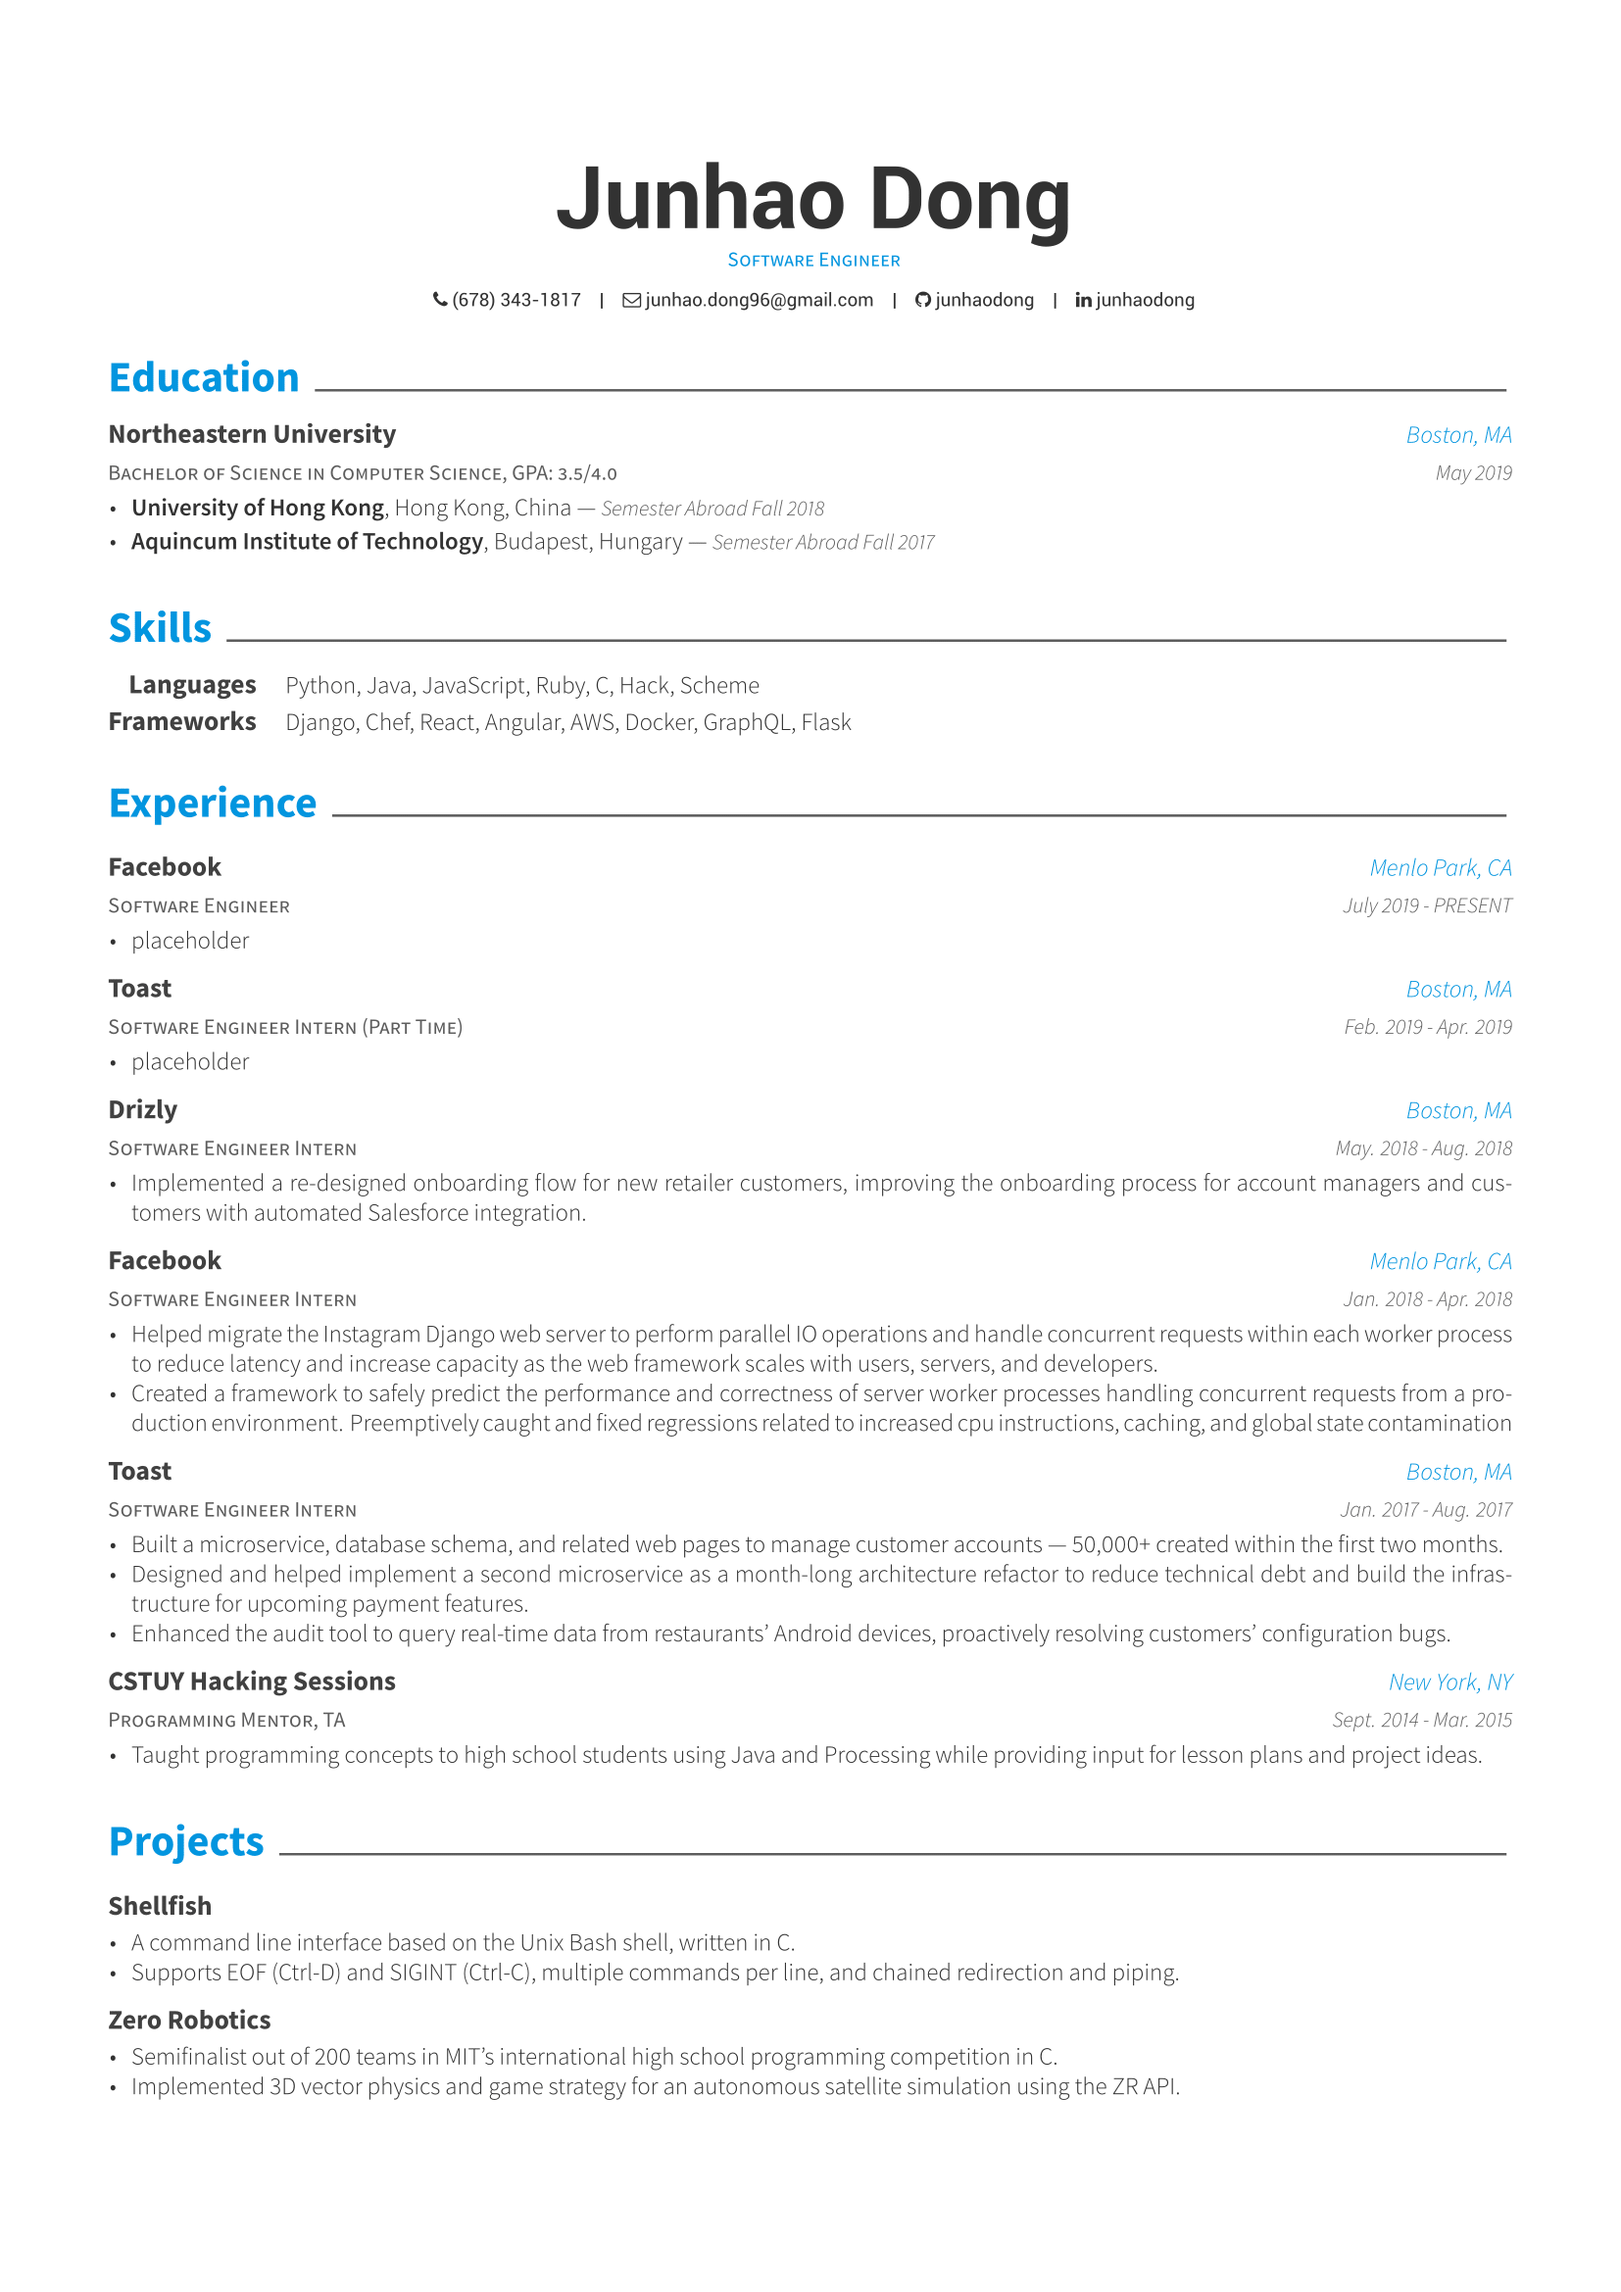
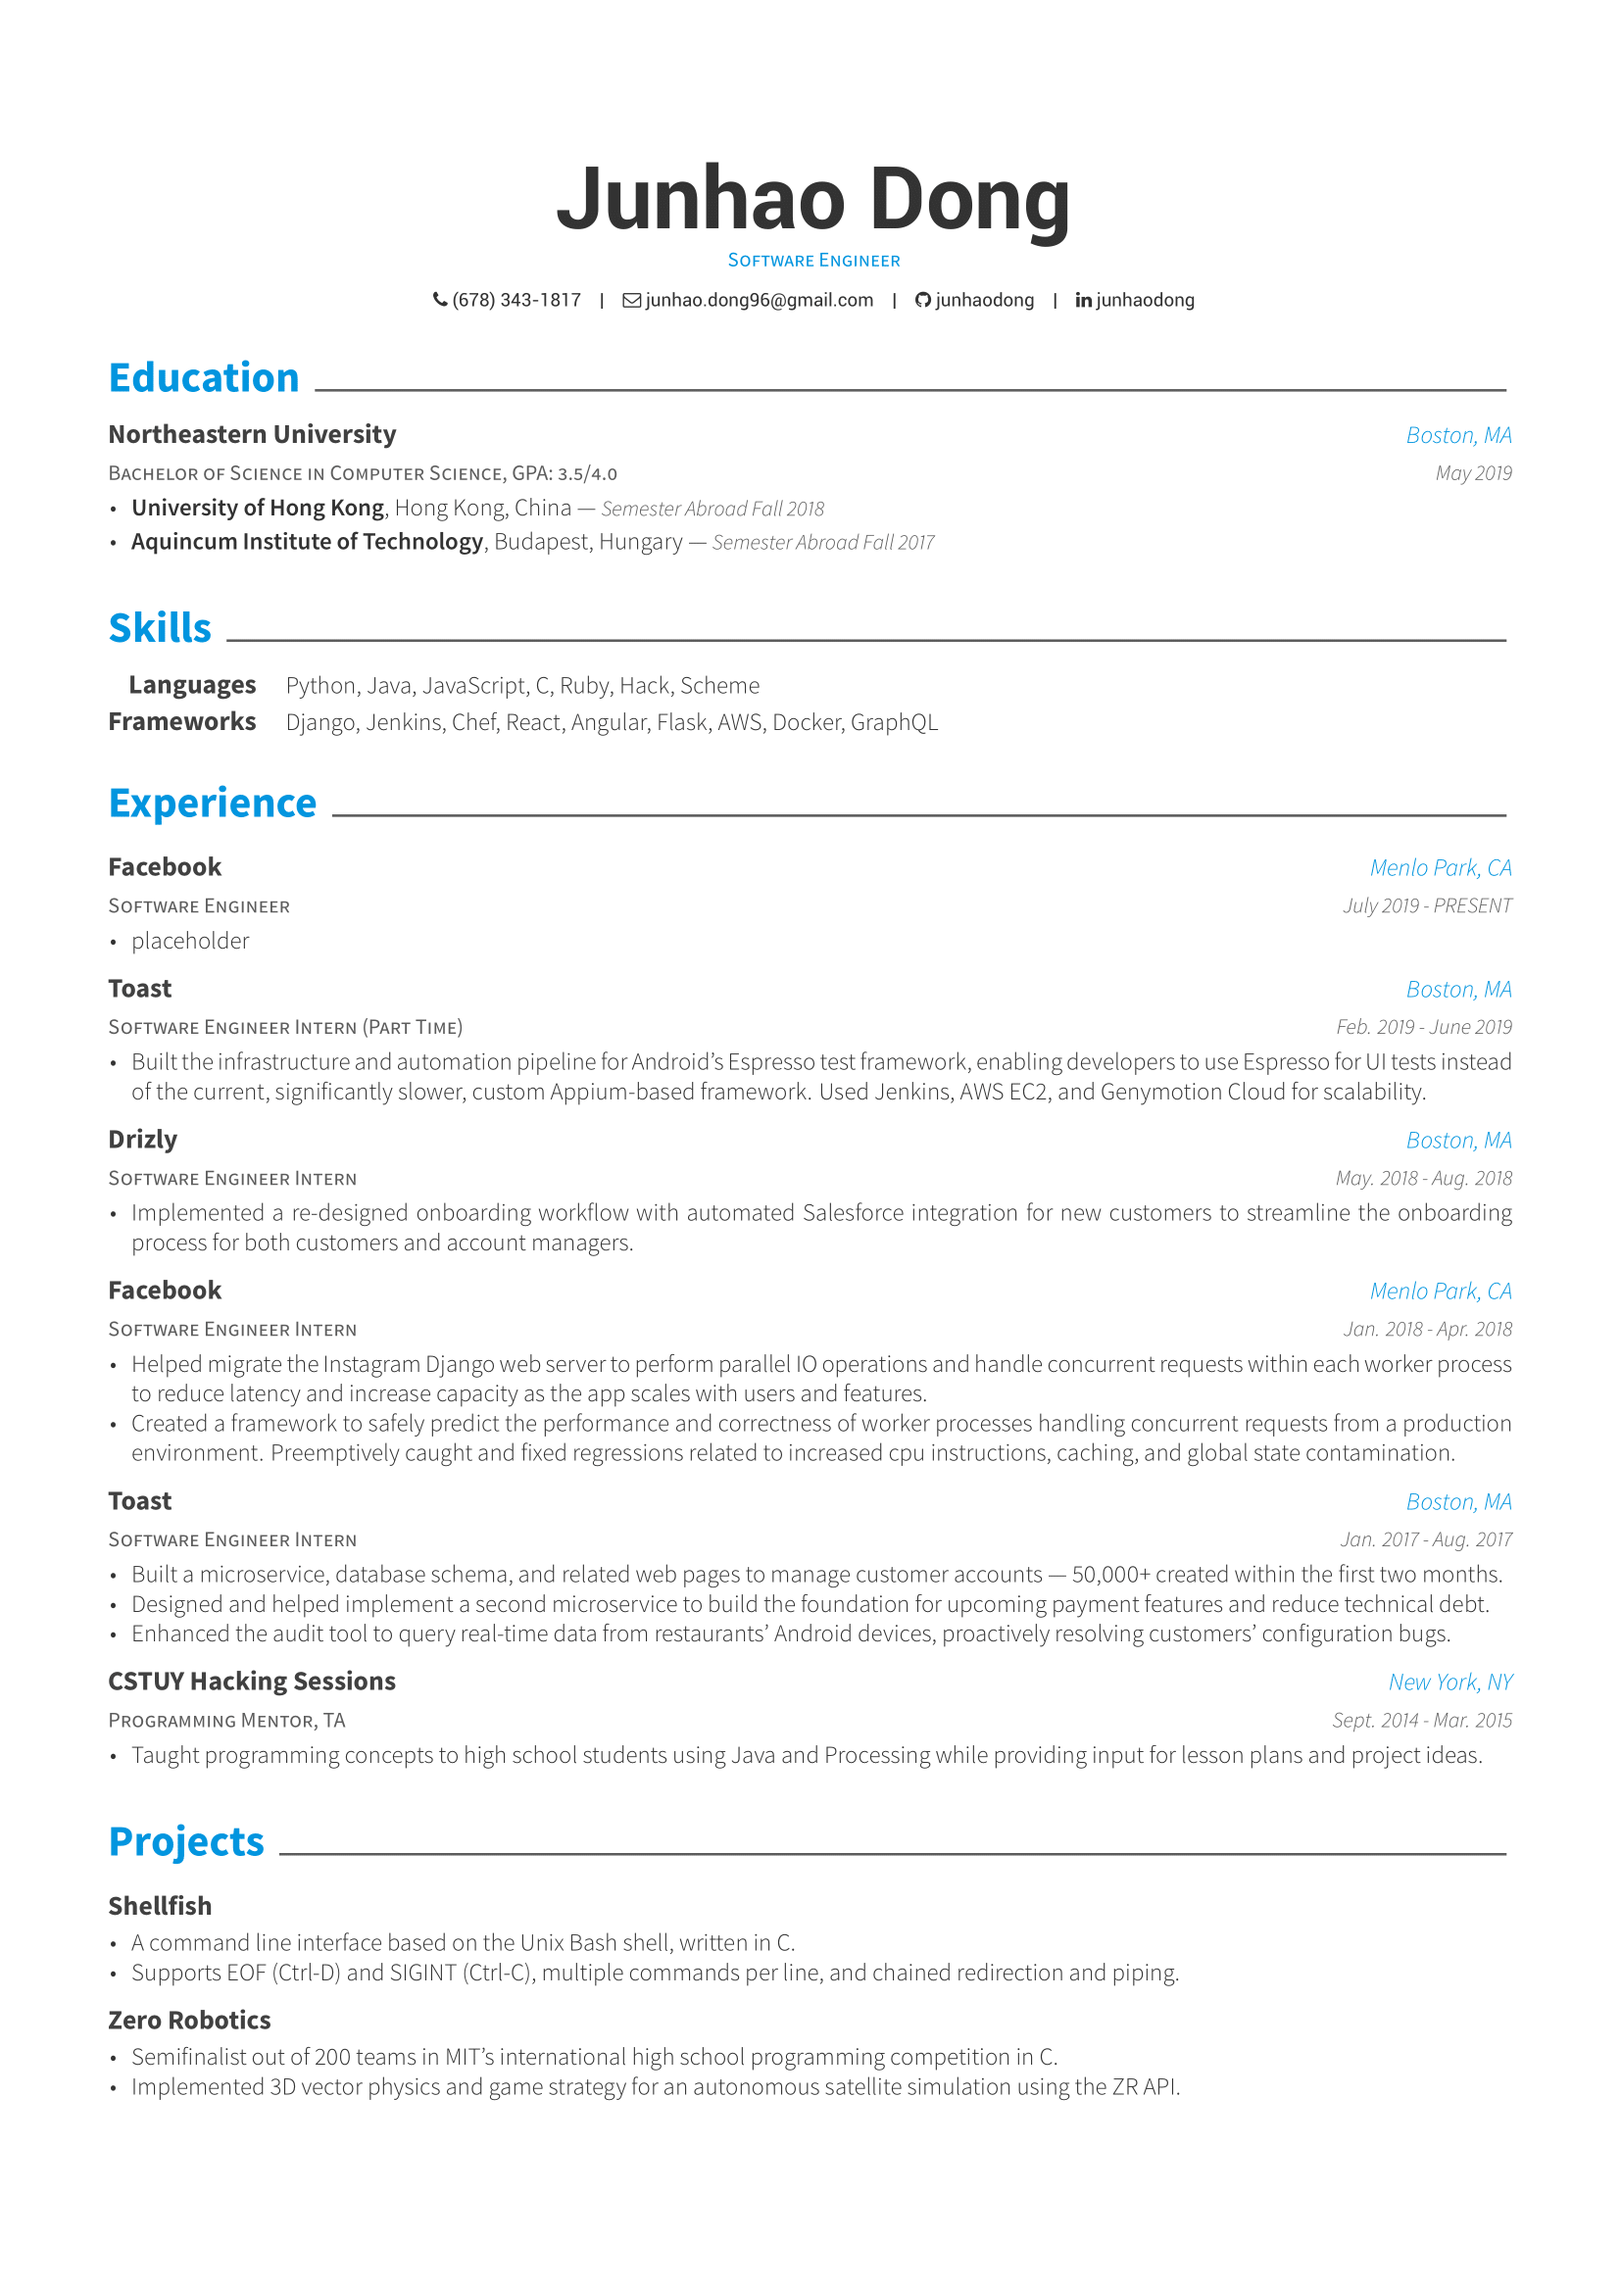
Update resume with Toast experience

diff --git a/resume/experience.tex b/resume/experience.tex
@@ -16,10 +16,10 @@
     {Software Engineer Intern (Part Time)} % Job title
     {Toast} % Organization
     {Boston, MA} % Location
-    {Feb. 2019 - Apr. 2019} % Date(s)
+    {Feb. 2019 - June 2019} % Date(s)
     {
       \begin{cvitems} % Description(s) of tasks/responsibilities
-        \item {placeholder}
+        \item {Built the infrastructure and automation pipeline for Android's Espresso test framework, enabling developers to use Espresso for UI tests instead of the current, significantly slower, custom Appium-based framework. Used Jenkins, AWS EC2, and Genymotion Cloud for scalability.}
       \end{cvitems}
     }
 
@@ -30,7 +30,7 @@
     {May. 2018 - Aug. 2018} % Date(s)
     {
       \begin{cvitems} % Description(s) of tasks/responsibilities
-        \item {Implemented a re-designed onboarding flow for new retailer customers, improving the onboarding process for account managers and customers with automated Salesforce integration.}
+        \item {Implemented a re-designed onboarding workflow with automated Salesforce integration for new customers to streamline the onboarding process for both customers and account managers.}
       \end{cvitems}
     }
 
@@ -41,8 +41,8 @@
     {Jan. 2018 - Apr. 2018} % Date(s)
     {
       \begin{cvitems} % Description(s) of tasks/responsibilities
-        \item {Helped migrate the Instagram Django web server to perform parallel IO operations and handle concurrent requests within each worker process to reduce latency and increase capacity as the web framework scales with users, servers, and developers.}
-		\item {Created a framework to safely predict the performance and correctness of server worker processes handling concurrent requests from a production environment. Preemptively caught and fixed regressions related to increased cpu instructions, caching, and global state contamination}
+        \item {Helped migrate the Instagram Django web server to perform parallel IO operations and handle concurrent requests within each worker process to reduce latency and increase capacity as the app scales with users and features.}
+		\item {Created a framework to safely predict the performance and correctness of worker processes handling concurrent requests from a production environment. Preemptively caught and fixed regressions related to increased cpu instructions, caching, and global state contamination.}
       \end{cvitems}
     }
 
@@ -54,7 +54,7 @@
     {
       \begin{cvitems} % Description(s) of tasks/responsibilities
         \item {Built a microservice, database schema, and related web pages to manage customer accounts --- 50,000+ created within the first two months.}
-		\item {Designed and helped implement a second microservice as a month-long architecture refactor to reduce technical debt and build the infrastructure for upcoming payment features.}
+		\item {Designed and helped implement a second microservice to build the foundation for upcoming payment features and reduce technical debt.}
 		\item {Enhanced the audit tool to query real-time data from restaurants' Android devices, proactively resolving customers' configuration bugs.}
       \end{cvitems}
     }

diff --git a/resume/skills.tex b/resume/skills.tex
@@ -3,9 +3,9 @@
 \begin{cvskills}
   \cvskill
     {Languages} % Type
-    {Python, Java, JavaScript, Ruby, C, Hack, Scheme} % Skillset
+    {Python, Java, JavaScript, C, Ruby, Hack, Scheme} % Skillset
 
   \cvskill
     {Frameworks} % Type
-    {Django, Chef, React, Angular, AWS, Docker, GraphQL, Flask} % Skillset
+    {Django, Jenkins, Chef, React, Angular, Flask, AWS, Docker, GraphQL} % Skillset
 \end{cvskills}

diff --git a/README.md b/README.md
@@ -1,13 +1,13 @@
 # resume
 My resume, largely sourced and inspired from [Awesome CV](https://github.com/posquit0/Awesome-CV).
 
-View the [PDF](https://raw.githubusercontent.com/junhaodong/resume/master/resume.pdf).
+View the [PDF](https://docs.google.com/viewer?url=https://raw.githubusercontent.com/junhaodong/resume/master/resume.pdf).
 
 <div align="center">
   <img alt="Résumé" src="https://raw.githubusercontent.com/junhaodong/resume/master/resume.png" width="70%" />
 </div>
 
 ## Quick Start
-Feel free to modify my `.tex` file to create your own resume. Please don't use my resume for anything else without my permission, though!
+Feel free to modify my `.tex` file to create your own resume! Please don't use my resume for anything else without permission though.
 
 * [**Edit Résumé on OverLeaf.com**](https://www.overleaf.com/latex/templates/resume-template/ysrmnrwyrhpp)
